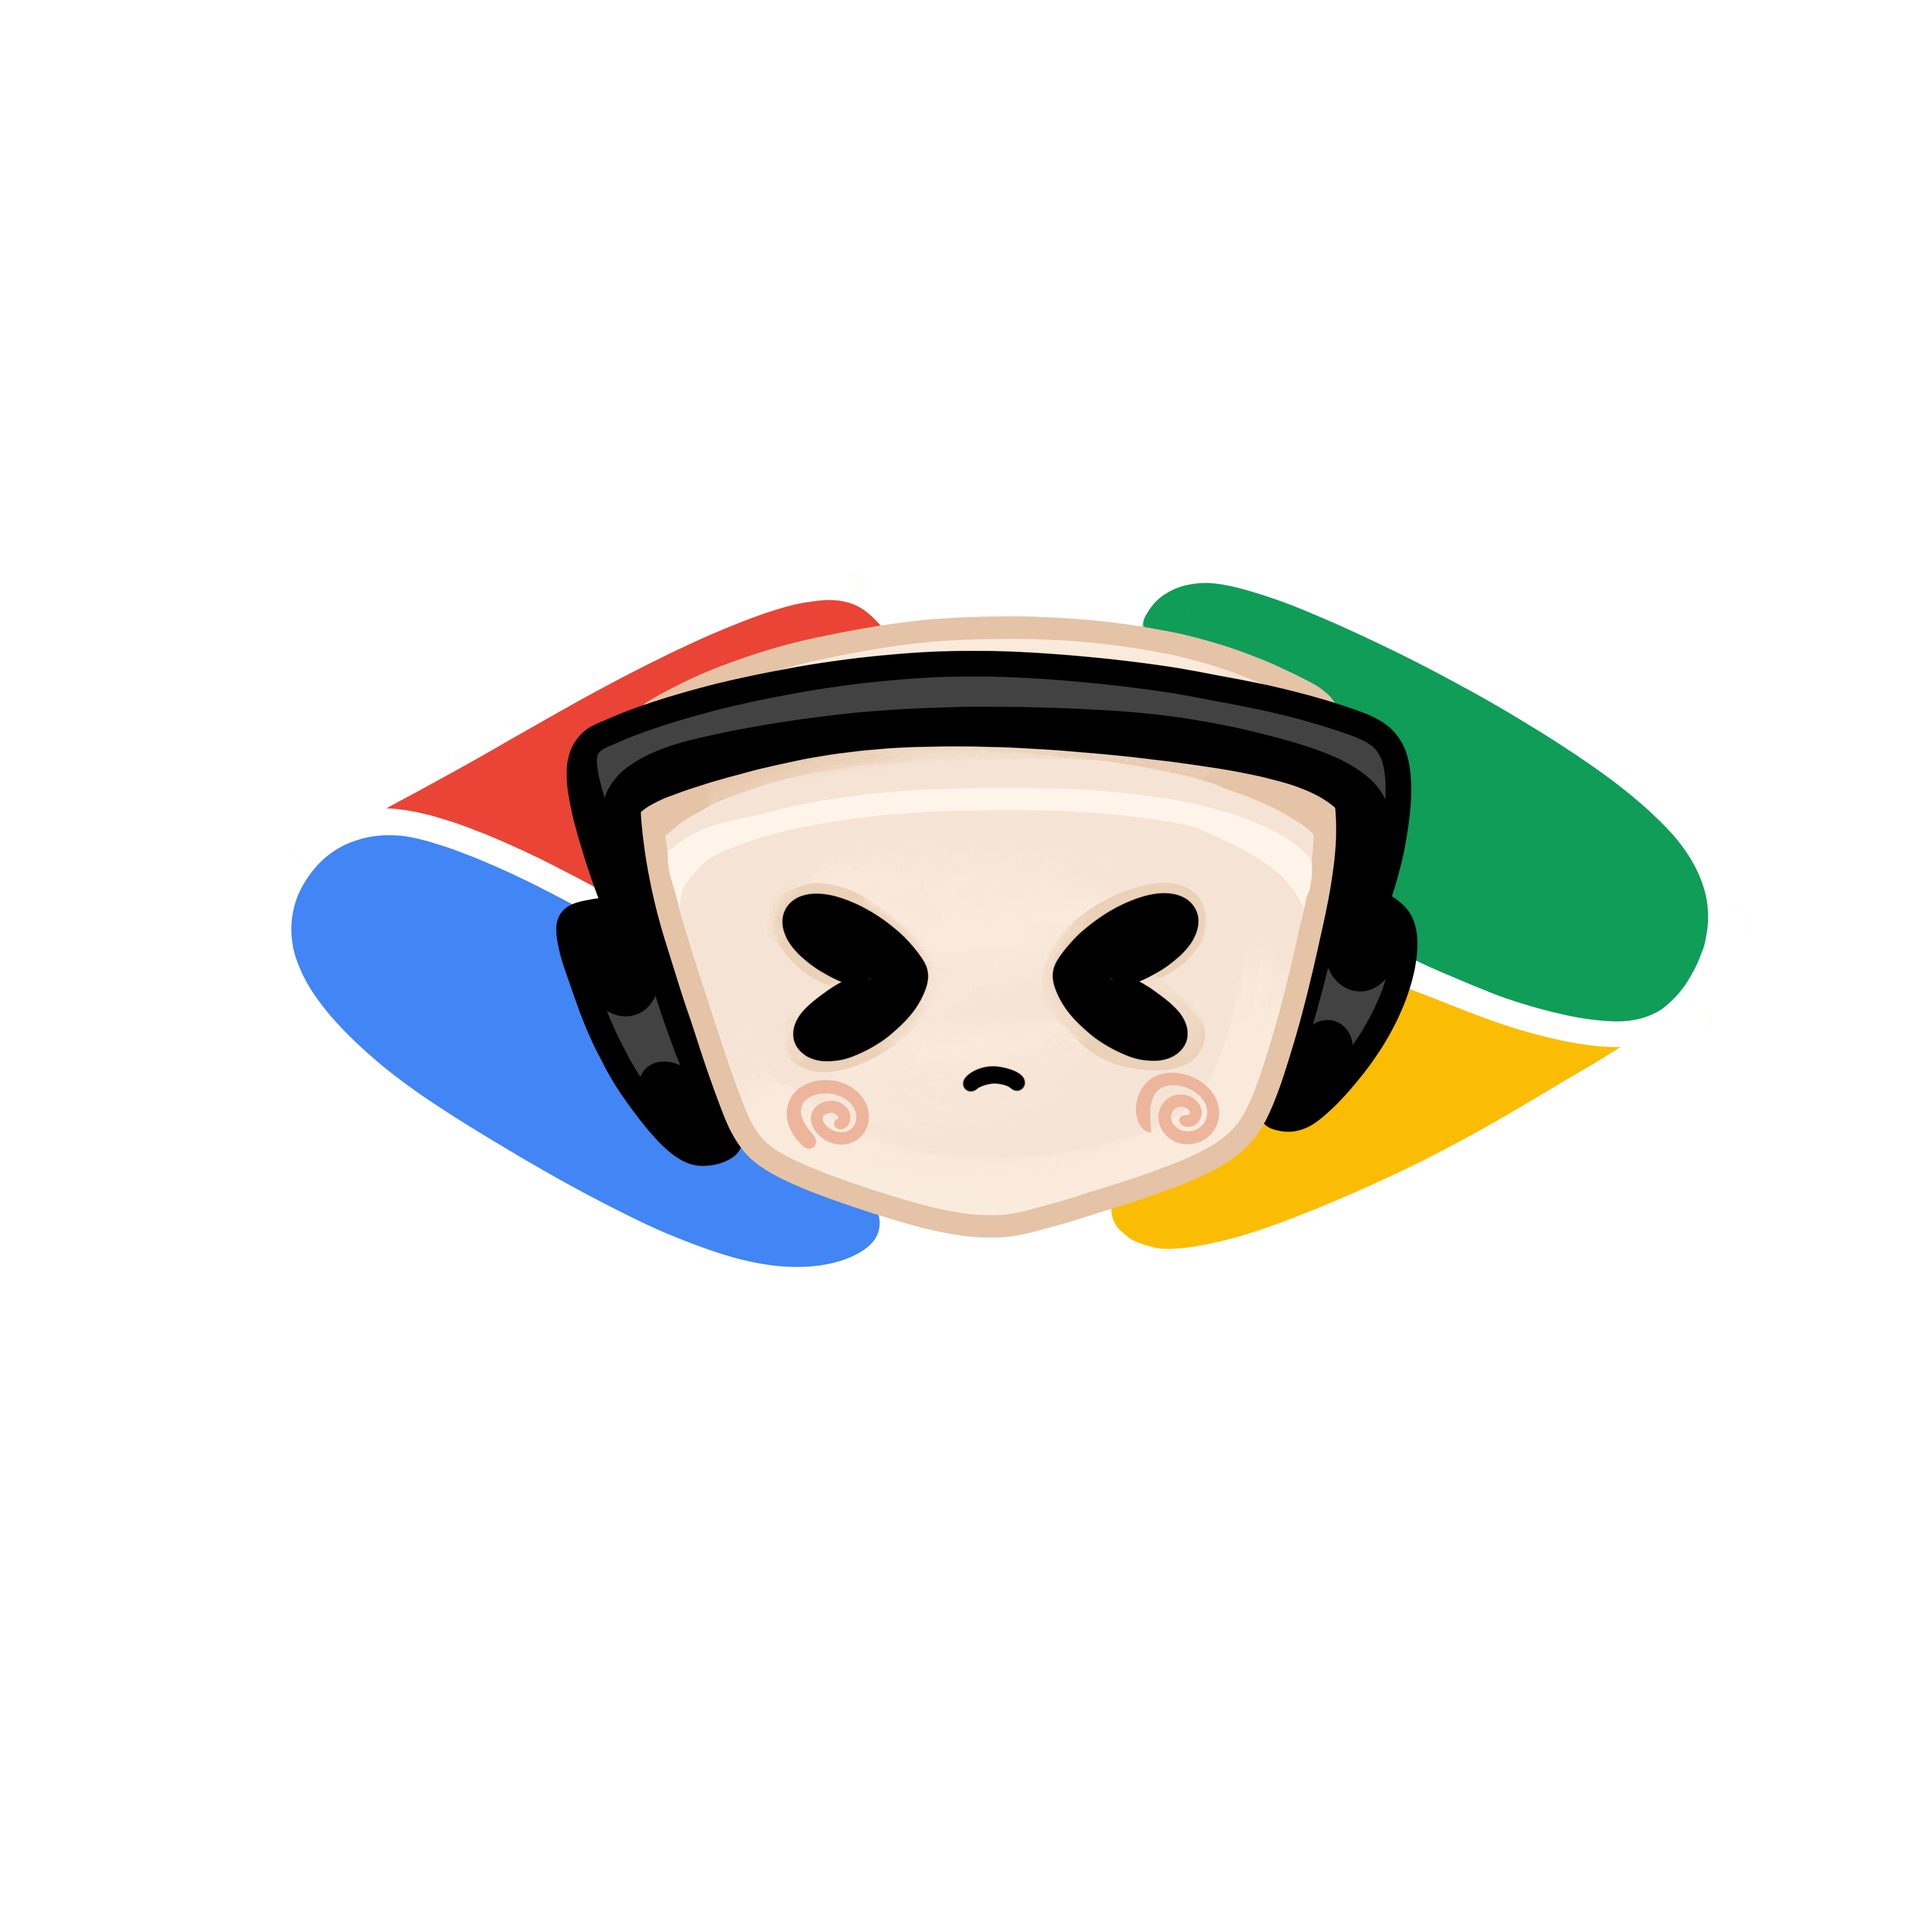
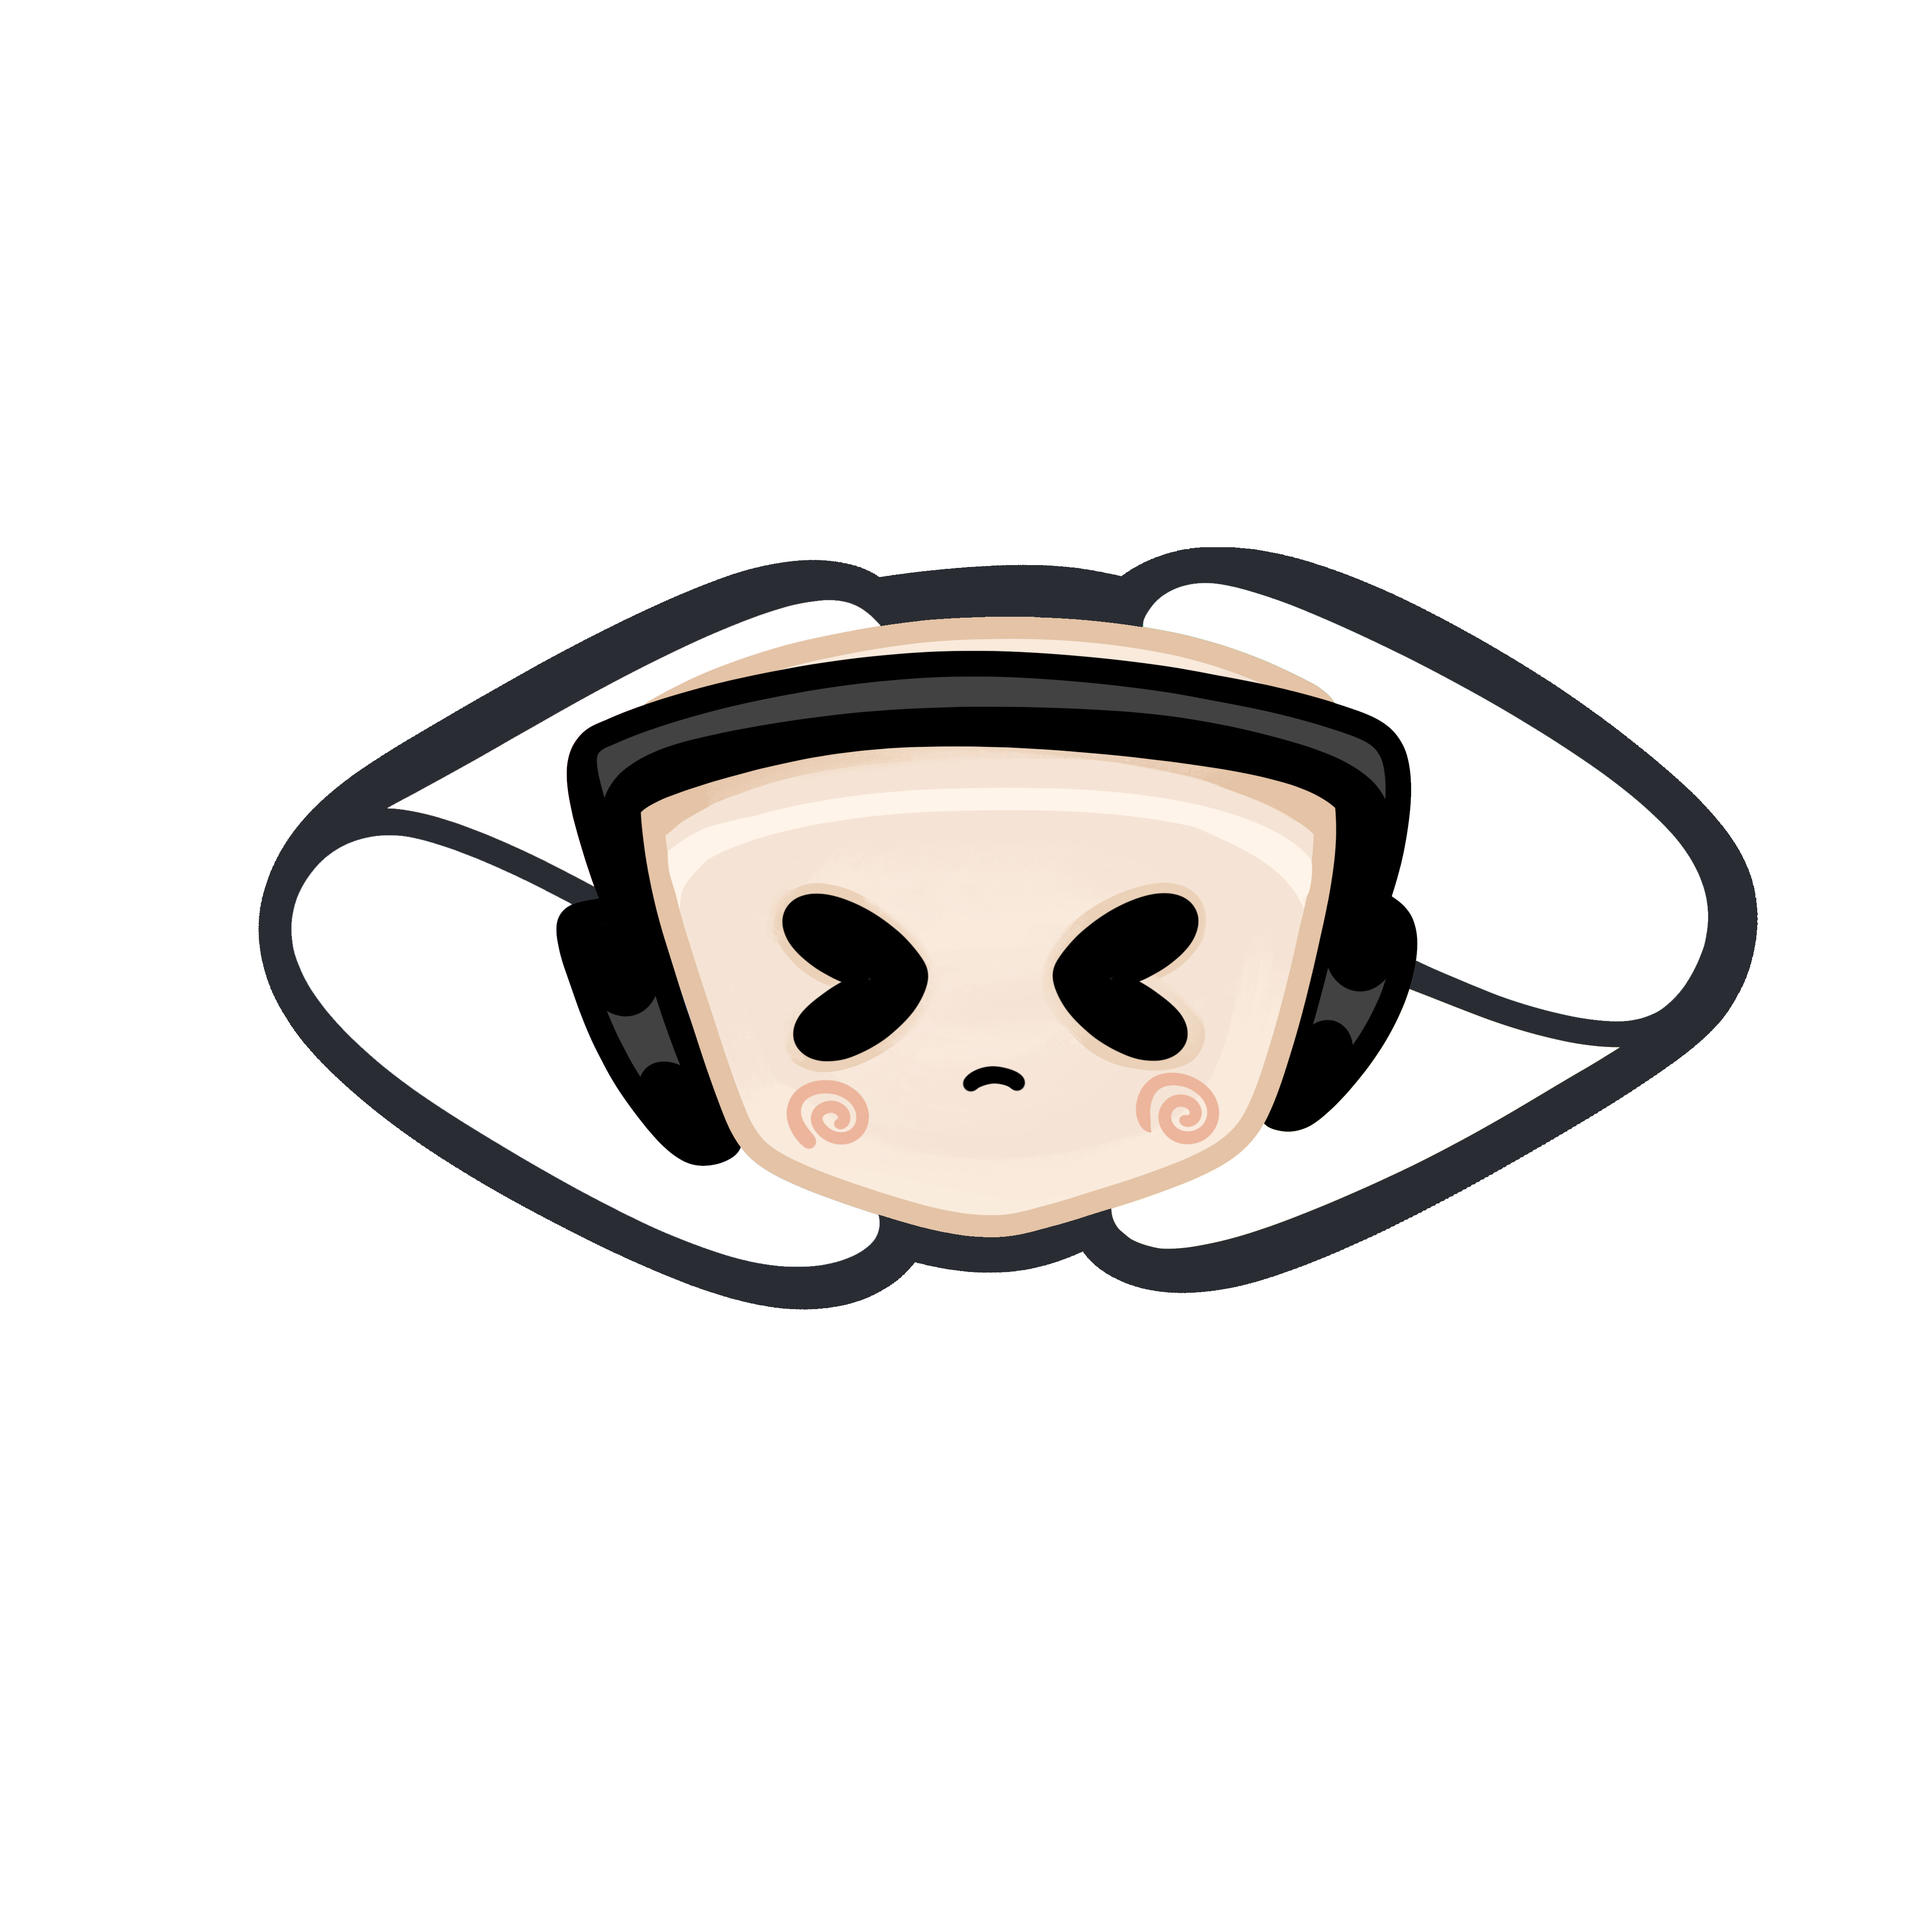
update 404 page

Changed region(s): [[0.125, 0.2812, 0.9375, 0.6875]]

diff --git a/frontend/src/components/EventList/EventList.jsx b/frontend/src/components/EventList/EventList.jsx
@@ -3,6 +3,8 @@ import {
   useState,
 } from 'react';
 
+import { Link } from 'react-router-dom';
+
 import {
   Grid,
   Skeleton,
@@ -91,12 +93,11 @@ export const EventList = ({ limit, from = MIN_DATE, to = MAX_DATE }) => {
 	}
 
 	// if no events, show message rather than empty page
-	// TODO: get Estelle to draw a cute image
 	else if (events.length === 0) {
 		return (
 			<Grid item xs={12}>
 				<Typography variant="h5" component="p" gutterBottom>
-					None yet! Check back soon :)
+					None yet! Check back soon, or check out our <Link to="/events#past-events">past events</Link>! 🤗
 				</Typography>
 			</Grid>
 		);
@@ -110,7 +111,7 @@ export const EventList = ({ limit, from = MIN_DATE, to = MAX_DATE }) => {
 						subtitle={<ConvertDate date={event["start_date"]} />}
 						title={event["title"]}
 						description={<Description id={event["id"]} />}
-						link={event["url"]}
+						url={event["url"]}
 					/>
 				</Grid>
 			))}

diff --git a/frontend/src/pages/PageNotFound/index.jsx b/frontend/src/pages/PageNotFound/index.jsx
@@ -1,7 +1,12 @@
 import React from 'react';
 
-import { ErrorOutline } from '@mui/icons-material';
-import { Container } from '@mui/material';
+import {
+  Container,
+  Typography,
+} from '@mui/material';
+
+import estelle from '../../assets/graphics/sad_mascot.png';
+import estelle_dark from '../../assets/graphics/sad_mascot_dark.png';
 
 const PageNotFound = () => {
 	return (
@@ -18,8 +23,16 @@ const PageNotFound = () => {
 				textAlign: "center",
 			}}
 		>
-			<ErrorOutline fontSize="large"/>
-			404 ERROR PAGE NOT FOUND {">:("}
+			<picture>
+				<source srcSet={estelle_dark} media="(prefers-color-scheme: dark)" />
+				<img src={estelle} alt="404 Mascot" height="600" width="600" />
+			</picture>
+			<Typography variant="h1" component="h1" gutterBottom>
+				404
+			</Typography>
+			<Typography variant="h4" component="p" gutterBottom>
+				We couldn't find the page you were looking for.
+			</Typography>
 		</Container>
 	);
 };

diff --git a/frontend/src/pages/Events/index.jsx b/frontend/src/pages/Events/index.jsx
@@ -31,6 +31,7 @@ const Events = () => {
 						fontWeight="bold"
 						lineHeight="2.5em"
 						variant="h4"
+						id="upcoming-events"
 					>
 						Upcoming Events
 					</Typography>
@@ -45,6 +46,7 @@ const Events = () => {
 						fontWeight="bold"
 						lineHeight="2.5em"
 						variant="h4"
+						id="past-events"
 					>
 						Past Events
 					</Typography>
